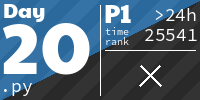
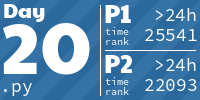
day 20 done

diff --git a/20. Race Condition/main.py b/20. Race Condition/main.py
@@ -1,5 +1,3 @@
-from sys import setrecursionlimit
-
 class Coord:
     def __init__(self, x: int, y: int):
         self.x = x
@@ -14,13 +12,15 @@ class Coord:
     def __mul__(self, other) -> 'Coord':
         if type(other) is Coord:
             return Coord(self.x * other.x, self.y * other.y)
-        elif type(other) is int:
+        if type(other) is int:
             return Coord(self.x * other, self.y * other)
+        raise ValueError(f'Cannot multiply a Coord with a {type(other)}')
     
     def __hash__(self):
         return hash((self.x, self.y))
     
     def __eq__(self, value: 'Coord') -> bool:
+        if type(value) is not Coord: return False
         return self.x == value.x and self.y == value.y
     
     def __str__(self) -> str:
@@ -28,69 +28,74 @@ class Coord:
 
     def __repr__(self) -> str:
         return str(self)
-        
+
 
 class Cheat:
     def __init__(self, start_point: Coord, end_point: Coord, time_saved: int):
         self.start_point = start_point
         self.end_point = end_point
         self.time_saved = time_saved
+    
+    def __eq__(self, value):
+        return (self.start_point == value.start_point and
+                self.end_point == value.end_point and
+                self.time_saved == value.time_saved)
 
-    
-    
+    def __hash__(self):
+        return hash((self.start_point, self.end_point, self.time_saved))
+
 
 class Track:
     def __init__(self, track_coords: list[Coord]):
         self.track_times = {coord: i for i, coord in enumerate(track_coords)}
 
-    def generate_cheats(self) -> list[Cheat]:
-        cheats: list[Cheat] = []
+    def generate_cheats(self, cheat_time: int) -> set[Cheat]:
+        cheats: set[Cheat] = set()
         for coord, time in self.track_times.items():
-            for dir in [Coord(0, 1), Coord(1, 0), Coord(0, -1), Coord(-1, 0)]:
-                if (other_coord := coord + dir * (cheat_len := 1)) in self.track_times: pass
-                elif (other_coord := coord + dir * (cheat_len := 2)) in self.track_times: pass
-                else: continue
-                cheats.append(Cheat(coord, other_coord, self.track_times[other_coord] - time - cheat_len))
+            for x_offset in range(0, cheat_time+1):
+                for y_offset in range(0, cheat_time+1 - x_offset):
+                    for mul in [Coord(1, 1), Coord(-1, 1), Coord(1, -1), Coord(-1, -1)]:
+                        if (end_coord := coord + Coord(x_offset, y_offset) * mul) in self.track_times:
+                            cheats.add(Cheat(coord, end_coord, self.track_times[end_coord] - time - (x_offset+y_offset)))             
         return cheats
-
-
 
 
 def parse_input(lines: list[str]) -> Track:
     for y, line in enumerate(lines):
-        start_coord = False
+        coord = False
         for x, cell in enumerate(line):
             if cell == 'S': 
-                start_coord = Coord(x, y)
+                coord = Coord(x, y)
                 break
-        if start_coord is not False: break
-
-    track_coords: list[Coord] = [] 
-    def inner(coord: Coord) -> bool:
-        if lines[coord.y][coord.x] == '#' or coord in track_coords: return False
+        if coord is not False: break
+    previous_coord = None
+    track_coords: list[Coord] = []
+    while True:
         track_coords.append(coord)
-        if lines[coord.y][coord.x] == 'E': return True
+        if lines[coord.y][coord.x] == 'E': break
         for offset_coord in [Coord(0, 1), Coord(1, 0), Coord(0, -1), Coord(-1, 0)]:
-            if inner(coord + offset_coord): return True
-        return False
-    inner(start_coord)
+            new_coord = coord + offset_coord
+            if lines[new_coord.y][new_coord.x] == '#' or new_coord == previous_coord: continue
+            previous_coord = coord
+            coord = new_coord
+            break
     return Track(track_coords)
 
 
 def part1(track: Track) -> int:
-    return sum(cheat.time_saved >= 100 for cheat in track.generate_cheats())
+    return sum(cheat.time_saved >= 100 for cheat in track.generate_cheats(2))
 
 
-def part2(track: Track):
-    ...
+def part2(track: Track) -> int:
+    return sum(cheat.time_saved >= 100 for cheat in track.generate_cheats(20))
 
 
 def main():
-    setrecursionlimit(999999)
     with open('20. Race Condition/input.txt', 'r') as f:
         lines = f.readlines()
     track = parse_input(lines)
-    print(part1(track))
+    for i, part in enumerate([part1, part2]):
+        print(f'Part {i+1}: {part(track)}')
 
 
 if __name__ == '__main__':

diff --git a/README.md b/README.md
@@ -1,6 +1,6 @@
 <!-- AOC TILES BEGIN -->
 <h1 align="center">
-  2024 - 37 ⭐ - Python
+  2024 - 38 ⭐ - Python
 </h1>
 <a href="1. Historian Hysteria/main.py">
   <img src=".aoc_tiles/tiles/2024/01.png" width="161px">
